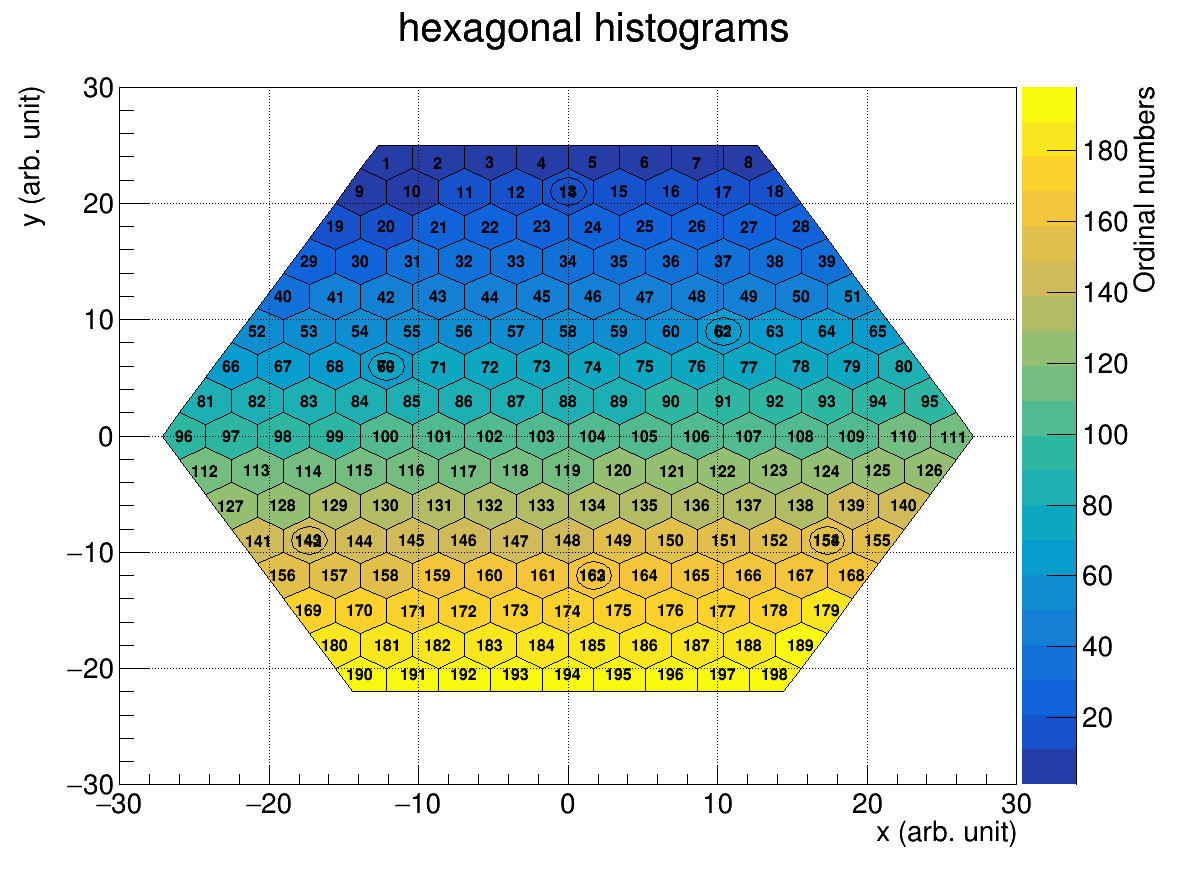
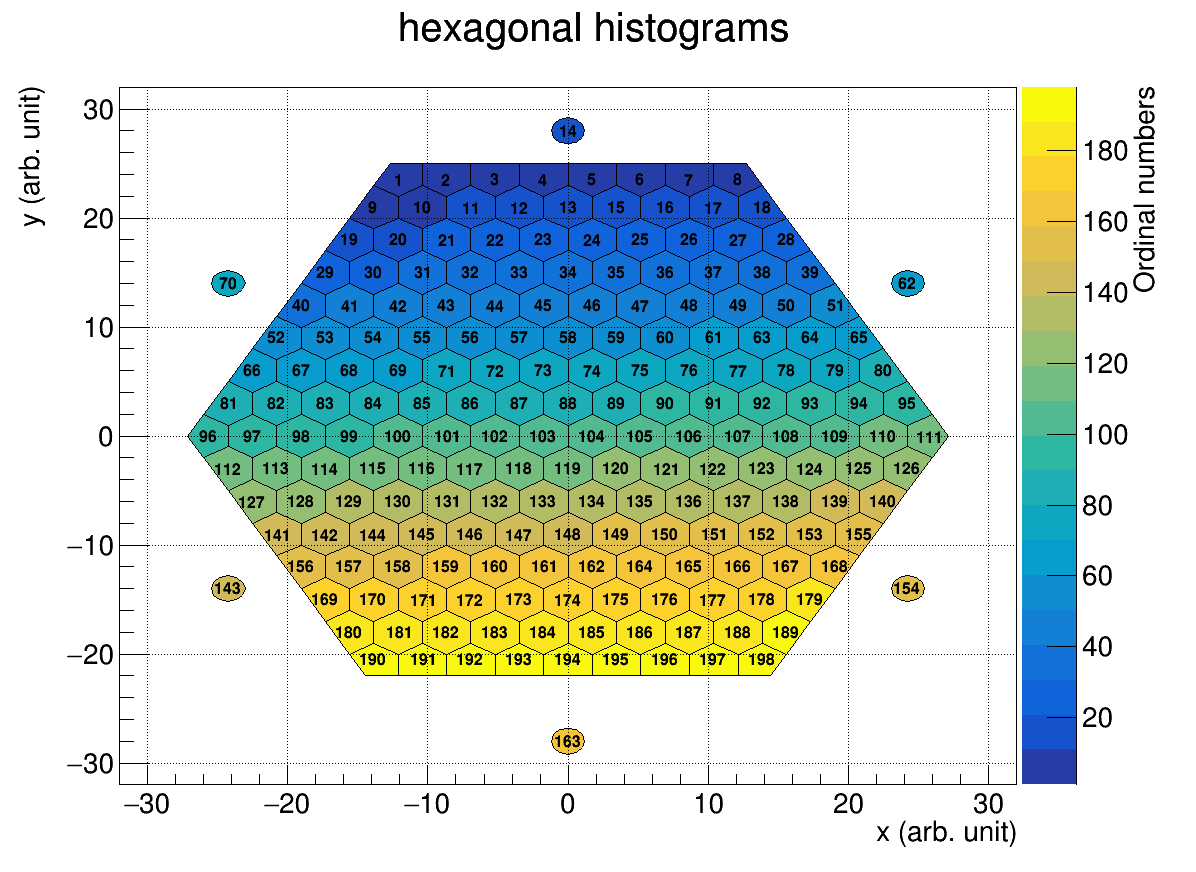
Shift calibration channels

diff --git a/exe.py b/exe.py
@@ -99,6 +99,17 @@ base = {
 	},
 }
 
+# Coordinates of calibration channels
+calib_distance_factor = 14.
+Coordinates_calib_channels = {
+	14  : (0, 2),
+	62  : (s3, 1),
+	154 : (s3, -1),
+	163 : (0, -2),
+	143 : (-1*s3, -1),
+	70  : (-1*s3, 1),
+}
+
 # LD wafer pentagons
 LD_pentapon_cells = {
 	type_pentagon_side1 : [2, 3, 4, 5, 6, 7],
@@ -186,6 +197,8 @@ for i, line in enumerate(contents):
 		type_polygon, nCorner = type_pentagon_side6, 5
 	elif("CALIB" in rocpin):
 		type_polygon, nCorner = type_circle, 12
+		x, y = Coordinates_calib_channels[sicell]
+		x, y = x * calib_distance_factor, y * calib_distance_factor
 	elif sicell in LD_pentapon_cells[type_pentagon_corner1]:
 		type_polygon, nCorner = type_pentagon_corner1, 5
 	elif sicell in LD_pentapon_cells[type_pentagon_corner2]:

diff --git a/th2poly.C b/th2poly.C
@@ -6,7 +6,7 @@
 
     TFile *f = TFile::Open("./data/hexagons.root","R");
 
-    TH2Poly *p = new TH2Poly("hexagonal histograms", "hexagonal histograms", -30, 30, -30, 30);
+    TH2Poly *p = new TH2Poly("hexagonal histograms", "hexagonal histograms", -32, 32, -32, 32);
     p->SetStats(0);
     p->GetXaxis()->SetTitle("x (arb. unit)");
     p->GetYaxis()->SetTitle("y (arb. unit)");
